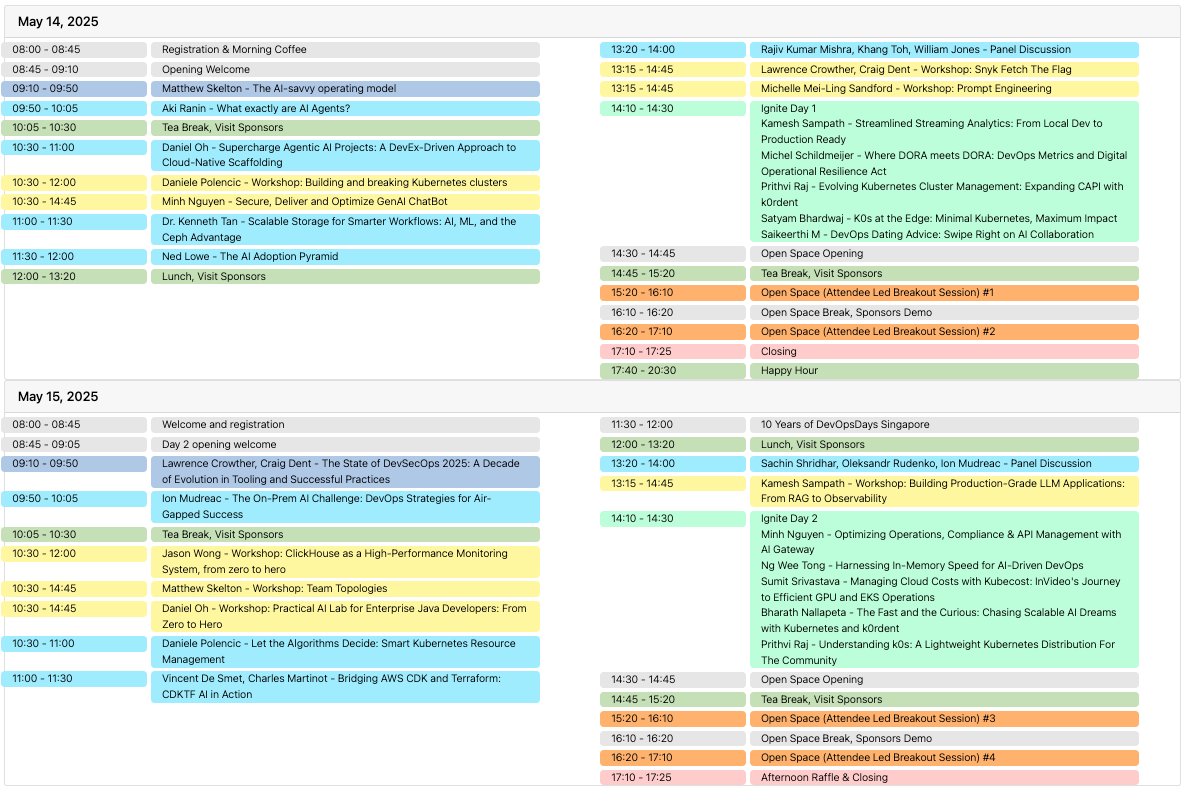
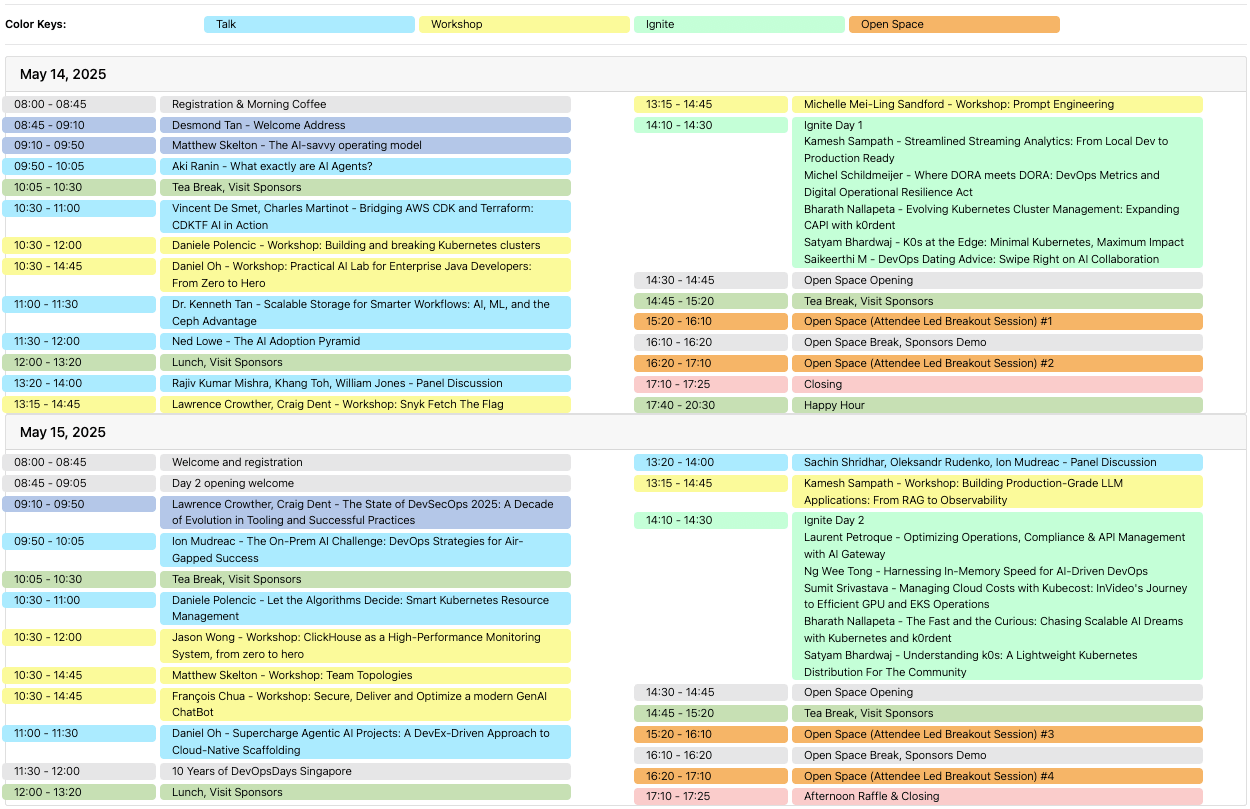
program update for workshops and panel discussions

diff --git a/content/events/2025-singapore/program/workshop-secure-deliver-optimize-genai.md b/content/events/2025-singapore/program/workshop-secure-deliver-optimize-genai.md
@@ -2,76 +2,57 @@
 talk_date = ""
 talk_start_time = ""
 talk_end_time = ""
-Title = "Secure, Deliver and Optimize GenAI ChatBot"
+Title = "Workshop: Secure, Deliver and Optimize a modern GenAI ChatBot"
 Type = "talk"
-Speakers = ["francois-chua", "minh-nguyen"]
+Speakers = ["francois-chua"]
 youtube = ""
 speakerdeck = ""
+sharing_image = "workshop-secure-deliver-and optimize-genai-chatbot.jpg"
 +++
+ 
+### Workshop
+
+Learn how to enhance the security, delivery, and optimization of AI applications with F5 AI Gateway. In this hands-on session, we’ll explore using F5 AI Gateway with an existing AI chat application to:
+
+* Protect against common AI attacks (OWASP LLM Top 10)
+* Optimize performance by routing AI traffic to the most suitable LLM
+
+#### Target Audience
+
+Engineers and Practitioners who are keen to explore AI application security and delivery.
+
+#### Workshop Overview
+
+* Fundamental about F5 AI Gateway AI Core / AI Processor
+* Understanding AI Gateway Configuration
+* Deploy F5 AI Gateway
+* Deploy AI Gateway User Interface.
+* Deploy F5 AI Processor
+* Validate GenAI chatbot works via AI Gateway
+* Deploy Simply-Chat App
+* Use Cases
 
 
-Prerequisite
-KASM desktop
-Windows10 Jumphost Console
-Lab Setup Environment
-### Class 1: The fundamental of Generative Artificial Intelligent (AI)
+#### Key Takeaways
 
-#### AI Primer
- - What is AI and how different with GenAI?
- - What is LLM?
- - What is SLM?
- - What is ML?
- - What hallucination means in AI?
- - What “token” means in context in AI?
- - What is quantization?
- - What is Retrival Augmented Generation?
- - What is Agentic RAG?
- - What is vectorizing in AI?
- - What is embedding in AI?
- - What is “context windows” in AI?
- - What is “temperature” in AI?
+By the end of this workshop, you should be able to:
+* Understand the use cases of AI Gateway
+* Understand how AI Gateway Core and Processor work
+* Understand how to protect AI applications against AI attacks (OWASP LLM Top 10)
 
-### Class 2: Deploy and Secure a modern application
- - Deploy Nginx Ingress Controller with App Protect to protect Web Apps Server
- - Deploy Arcadia Financial Modern Apps
- - Secure Modern Apps with NGINX App Protect WAF
- - Recap
+#### Prerequisites for Participants
 
-### Class 3: Architect, build and deploy AI Services
- - Conceptual Architecture of AI Services
- - Deploy Nginx Ingress Controller for AIGW K8S
- - Deploy Open-WebUI with Ollama Service
- - Download Language Model
- - Deploy LLM model service (Ollama)
- - Deploy LLM orchestrator service (Flowise AI)
- - Deploy Vector Database (Qdrant)
- - Build RAG pipeline with FlowsieAI/Langchain
-Vectorize Proprietary Data
-Validate your first GenAI RAG Chatbot
+* Basic understanding of containers, docker & Kubernetes experience
+* Basic understanding of LLMs
+* Bring your own laptop with RDP client (RDP protocol allowed) to access Windows10 Jump host or Chrome Browser to access KASM desktop (Linux Jump host)
+* Need Internet access to F5 remote labs (Use Wi-Fi or your own data)
 
-### Class 4: Enhance Modern Application with GenAI ChatBot
- - Integrate AI Service (RAG ChatBot) into Arcadia Trading
+Note: Participants can access the workshop training guides online, and the F5 Lab will be available for 72 hours.
 
-### Class 5: Secure, Deliver and Optimize GenAI ChatBot
- - Fundamental about F5 AI Gateway AI Core / AI Processor
- - Understanding AIGW Configuration
- - Deploy F5 AI Gateway
- - Deploy AI GW User Interface.
- - Deploy F5 AI Processor
- - Validate GenAI chatbot works via AIGW
- - Deploy Simply-Chat Apps
+#### Useful Links
 
-**Use Cases**
-* LLM Traffic Management
-* PII Redactor - Sensitive Information Disclosure
-* RAG ChatBot - Sensitive Information Disclosure
-* Prompt Injection
+https://genai.owasp.org/resource/owasp-top-10-for-llm-applications-2025/
 
-### Class 6: LLM Red Teaming
-* What is AI Governance?
-* AI Risk/Safety vs AI Security
-* What is LLM Red Teaming?
-* F5 LLM Red Teaming Solution
 
 <div class="card col-lg-12 border-0"><div class="embed-responsive embed-responsive-16by9">
     <iframe class="embed-responsive-item" src="https://www.youtube.com/embed/r4afnSqn-Ns" frameborder="0" allow="accelerometer; autoplay; encrypted-media; gyroscope; picture-in-picture" allowfullscreen></iframe>

diff --git a/content/events/2025-singapore/speakers/francois-chua.md b/content/events/2025-singapore/speakers/francois-chua.md
@@ -1,7 +1,14 @@
 
 +++
-Title = "Francois Chua"
+Title = "François Chua"
 type = "speaker"
 linktitle = "francois-chua"
+image = "francois-chua.jpg"
 
 +++
+
+François Chua has over 20 years of information security experience in application security, database security, audit risk and compliance, and online banking malware and fraud prevention.
+
+Prior to F5, François held various roles in managing security service delivery, technology risk consulting services and training across APCJ regions.
+
+François holds a Bachelor of Science (Computing) and keeps his expertise relevant with various professional certifications including CKS, CCSP, CISSP and CISA.

diff --git a/content/events/2025-singapore/speakers/minh-nguyen.md b/content/events/2025-singapore/speakers/minh-nguyen.md
@@ -5,8 +5,8 @@ Linkedin = "https://www.linkedin.com/in/minh-nguyen-aa537452"
 
 image = "minh-nguyen.jpg"
 linktitle = "minh-nguyen"
-sharing_image = "singapore-banner.png"
 +++
+
 Modern Apps Specialist at F5 Solutions. Formerly a data engineer in online classifieds and a software engineer in Singapore's healthcare scene, that’s how I’ve gotten into the tech scene. 
 
 I'm passionate about crafting secured and streamlined DevOps solutions that foster innovation and teamwork. I am excited to be part of this DevOps event. Let's explore together!

diff --git a/content/events/2025-singapore/program/understanding-k0s.md b/content/events/2025-singapore/program/understanding-k0s.md
@@ -4,7 +4,7 @@ talk_start_time = ""
 talk_end_time = ""
 Title = "Understanding k0s: A Lightweight Kubernetes Distribution For The Community"
 Type = "talk"
-Speakers = ["prithvi-raj"]
+Speakers = ["satyam-bhardwaj"]
 youtube = ""
 speakerdeck = ""
 +++

diff --git a/content/events/2025-singapore/program/expanding-capi-with-k0rdent.md b/content/events/2025-singapore/program/expanding-capi-with-k0rdent.md
@@ -4,7 +4,7 @@ talk_start_time = ""
 talk_end_time = ""
 Title = "Evolving Kubernetes Cluster Management: Expanding CAPI with k0rdent"
 Type = "talk"
-Speakers = ["prithvi-raj"]
+Speakers = ["bharath-nallapeta"]
 youtube = ""
 speakerdeck = ""
 +++

diff --git a/content/events/2025-singapore/program/fintech-panel-discussion.md b/content/events/2025-singapore/program/fintech-panel-discussion.md
@@ -7,6 +7,8 @@ Type = "talk"
 Speakers = ["rajiv-kumar-mishra", "khang-toh", "william-jones"]
 youtube = ""
 speakerdeck = ""
+sharing_image = "fintech-panel-discussion.jpg"
+
 +++
 
 ### DevOps meets AI in Singapore Financial Hub

diff --git a/content/events/2025-singapore/speakers/laurent-petroque.md b/content/events/2025-singapore/speakers/laurent-petroque.md
@@ -3,6 +3,7 @@ Title = "Laurent Petroque"
 Linkedin = "https://www.linkedin.com/in/laurentpetroque"
 type = "speaker"
 linktitle = "laurent-petroque"
+image = "laurent-petroque.jpg"
 
 +++
 

diff --git a/content/events/2025-singapore/program/workshop-building-and-breaking-kubernetes-clusters.md b/content/events/2025-singapore/program/workshop-building-and-breaking-kubernetes-clusters.md
@@ -7,6 +7,7 @@ Type = "talk"
 Speakers = ["daniele-polencic"]
 youtube = ""
 speakerdeck = ""
+sharing_image = "workshop-building-and-breaking-kubernetes-clusters.jpg"
 +++
 
 ### Workshop

diff --git a/content/events/2025-singapore/program/workshop-from-zero-to-hero.md b/content/events/2025-singapore/program/workshop-from-zero-to-hero.md
@@ -7,6 +7,7 @@ Type = "talk"
 Speakers = ["daniel-oh"]
 youtube = ""
 speakerdeck = ""
+sharing_image = "workshop-practical-ai-lab-for-enterprise-java-developers.jpg"
 +++
 
 ### Workshop

diff --git a/content/events/2025-singapore/program/workshop-snyk-fetch-the-flag.md b/content/events/2025-singapore/program/workshop-snyk-fetch-the-flag.md
@@ -7,6 +7,7 @@ Type = "talk"
 Speakers = ["lawrence-crowther", "craig-dent"]
 youtube = ""
 speakerdeck = ""
+sharing_image = "workshop-snyk-fetch-the-flag.jpg"
 +++
 
 ### Workshop

diff --git a/content/events/2025-singapore/program/workshop-llm-applications.md b/content/events/2025-singapore/program/workshop-llm-applications.md
@@ -7,6 +7,7 @@ Type = "talk"
 Speakers = ["kamesh-sampath"]
 youtube = ""
 speakerdeck = ""
+sharing_image = "workshop-building-llm-applications.jpg"
 +++
 
 ### Workshop

diff --git a/content/events/2025-singapore/program/workshop-team-topologies.md b/content/events/2025-singapore/program/workshop-team-topologies.md
@@ -7,6 +7,7 @@ Type = "talk"
 Speakers = ["matthew-skelton"]
 youtube = ""
 speakerdeck = ""
+sharing_image = "workshop-team-topologies.jpg"
 +++
 
 ### Workshop
